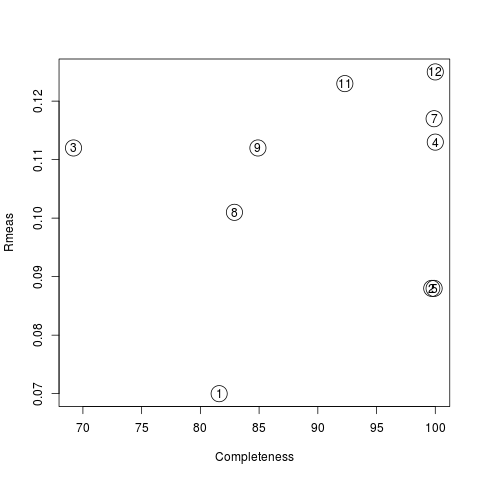
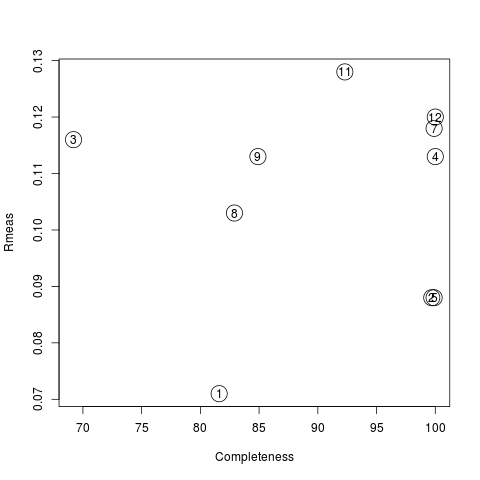
CHANGES IN VERSION 0.5.9 - 09/10/2014 - Small change in code for both blend2.R and blend3.R to reflect new resolution criteria   in AIMLESS for CC1/2 and Mn(I/sd)

diff --git a/additional_material/BLEND_tutorial.html b/additional_material/BLEND_tutorial.html
@@ -45,6 +45,14 @@ Foadi<SUP>(a)</SUP> and Pierre Aller<SUP>(b)</SUP></FONT></FONT></P>
   <A HREF="#references">Hanson et al. (2012)</A>.
  </FONT>
 </P>
+<P>
+ <FONT SIZE=4 COLOR="#c90016">
+ WARNING!!! All merging statistics included in this tutorial have been calculated using POINTLESS and AIMLESS. These CCP4 programs are
+ periodically subject to small changes in the code. It is therefore possible that some of the merging statistics contained in this tutorial
+ appear slightly different from what the user obtains with his/her version of CCP4. These differences are very minimal and should be considered
+ as primarily due to different numerical or algorithmical approximations.
+ </FONT>
+</P>
 <H2>CONTENTS</H2>
   <A HREF="#dsets">Data sets included with this tutorial</A>
   <br>

diff --git a/src/blend.cpp b/src/blend.cpp
@@ -10,6 +10,9 @@
 /********* included in the root directory of this package.                                          *********/
 /************************************************************************************************************/
 /************************************************************************************************************/
+// CHANGES IN VERSION 0.5.9 - 09/10/2014
+// - Small change in code for both blend2.R and blend3.R to reflect new resolution criteria
+//   in AIMLESS for CC1/2 and Mn(I/sd)
 // CHANGES IN VERSION 0.5.8 - 08/10/2014
 // - Further bug fixes for aLCV calculation
 // CHANGES IN VERSION 0.5.7 - 07/10/2014
